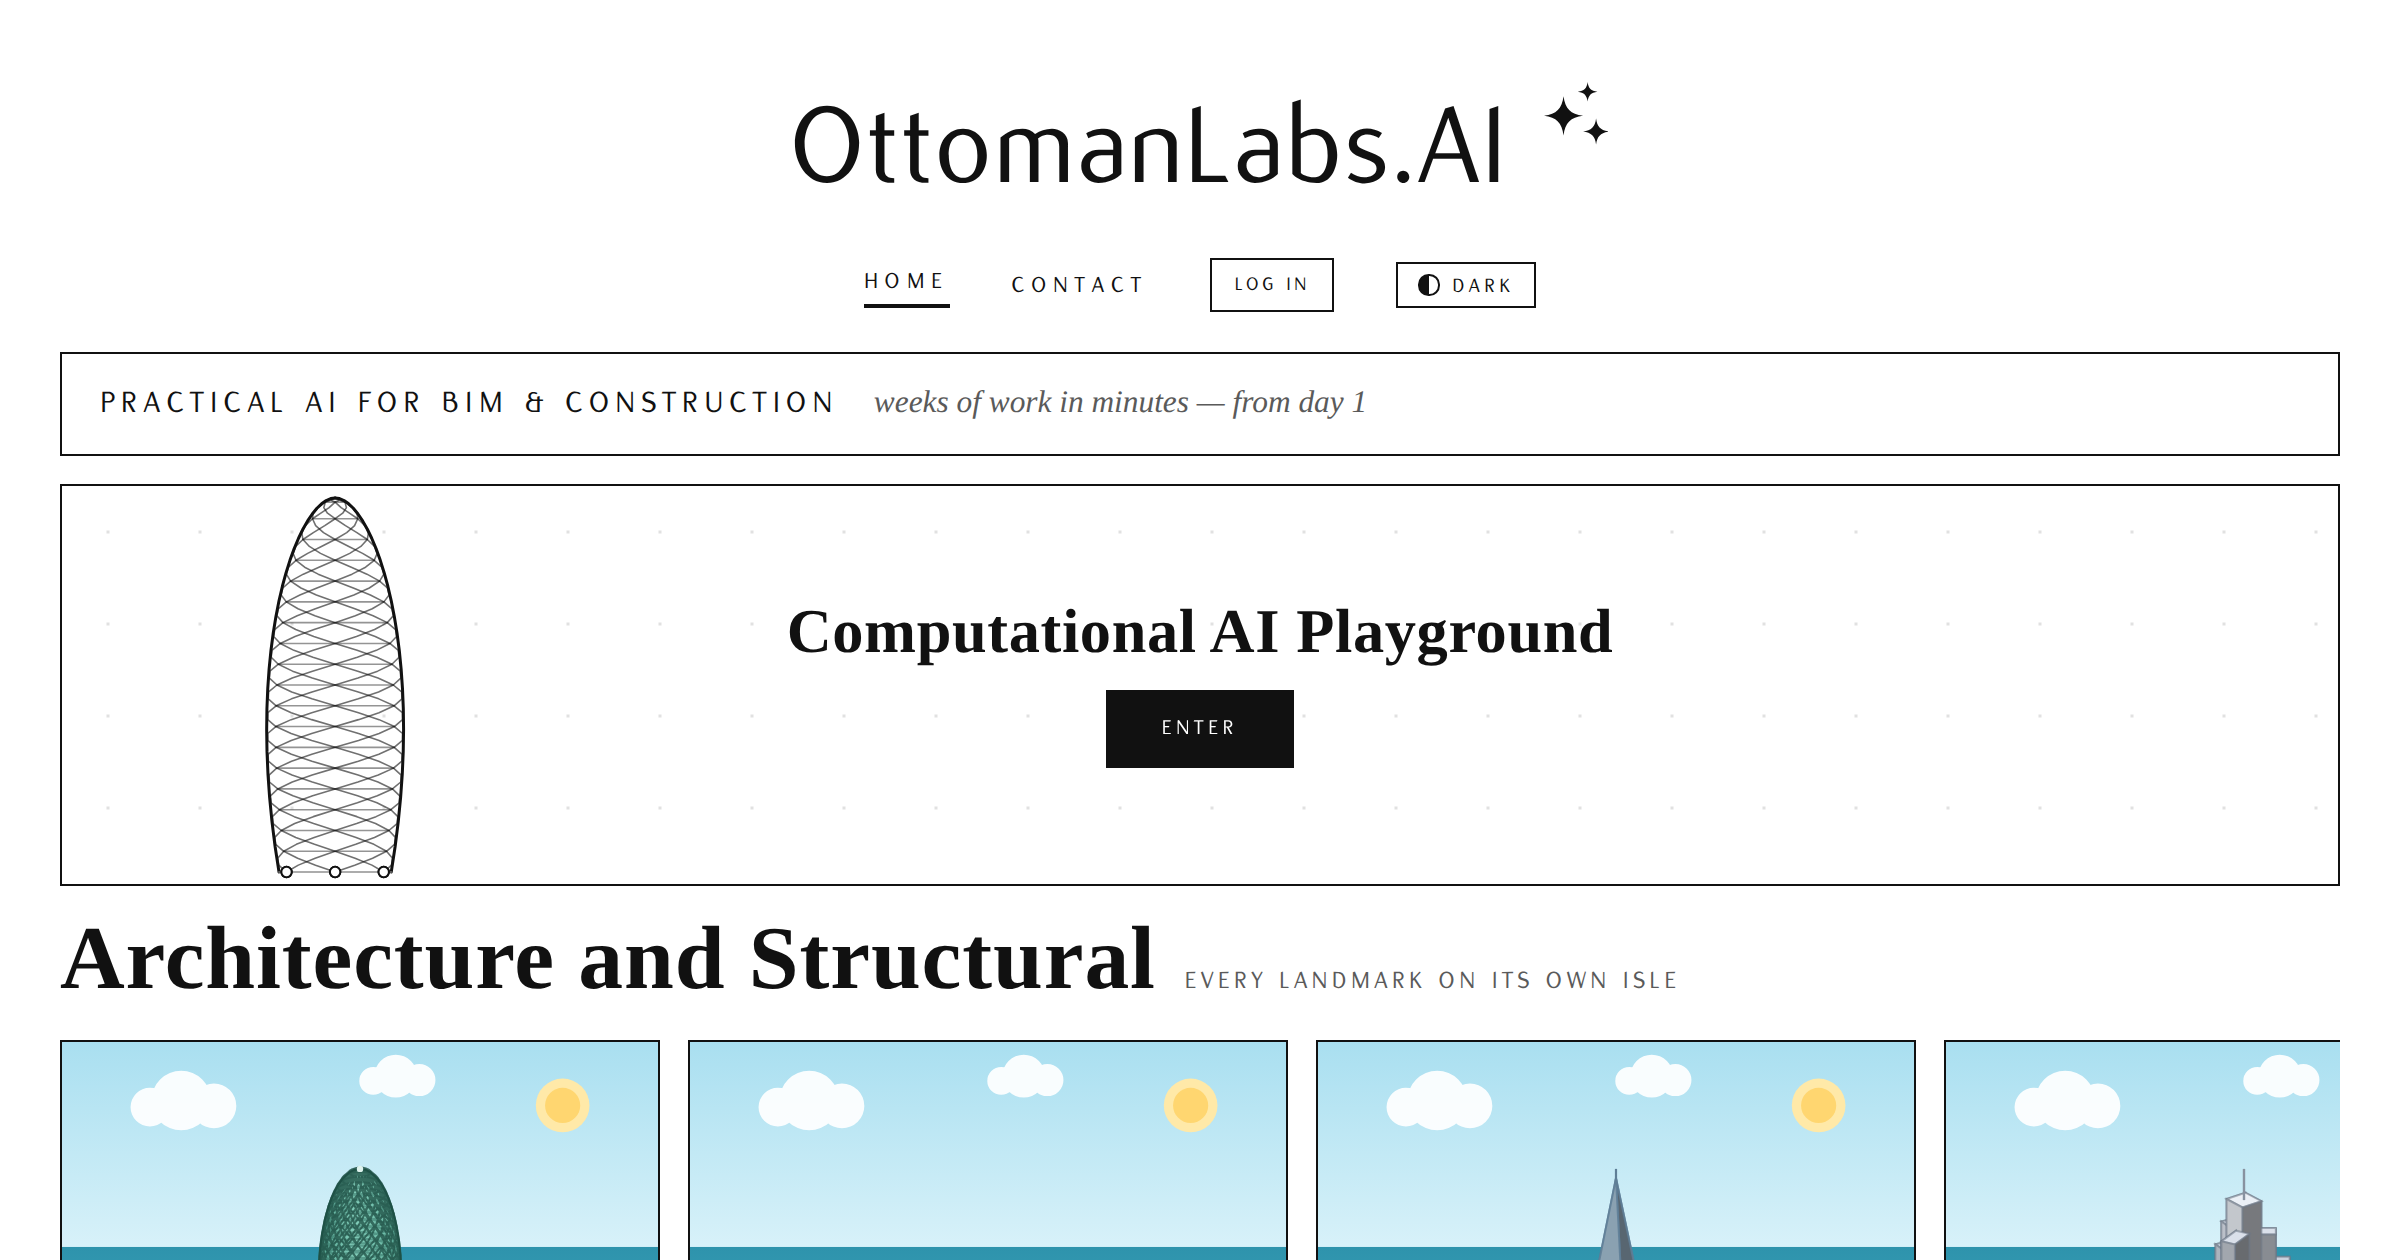
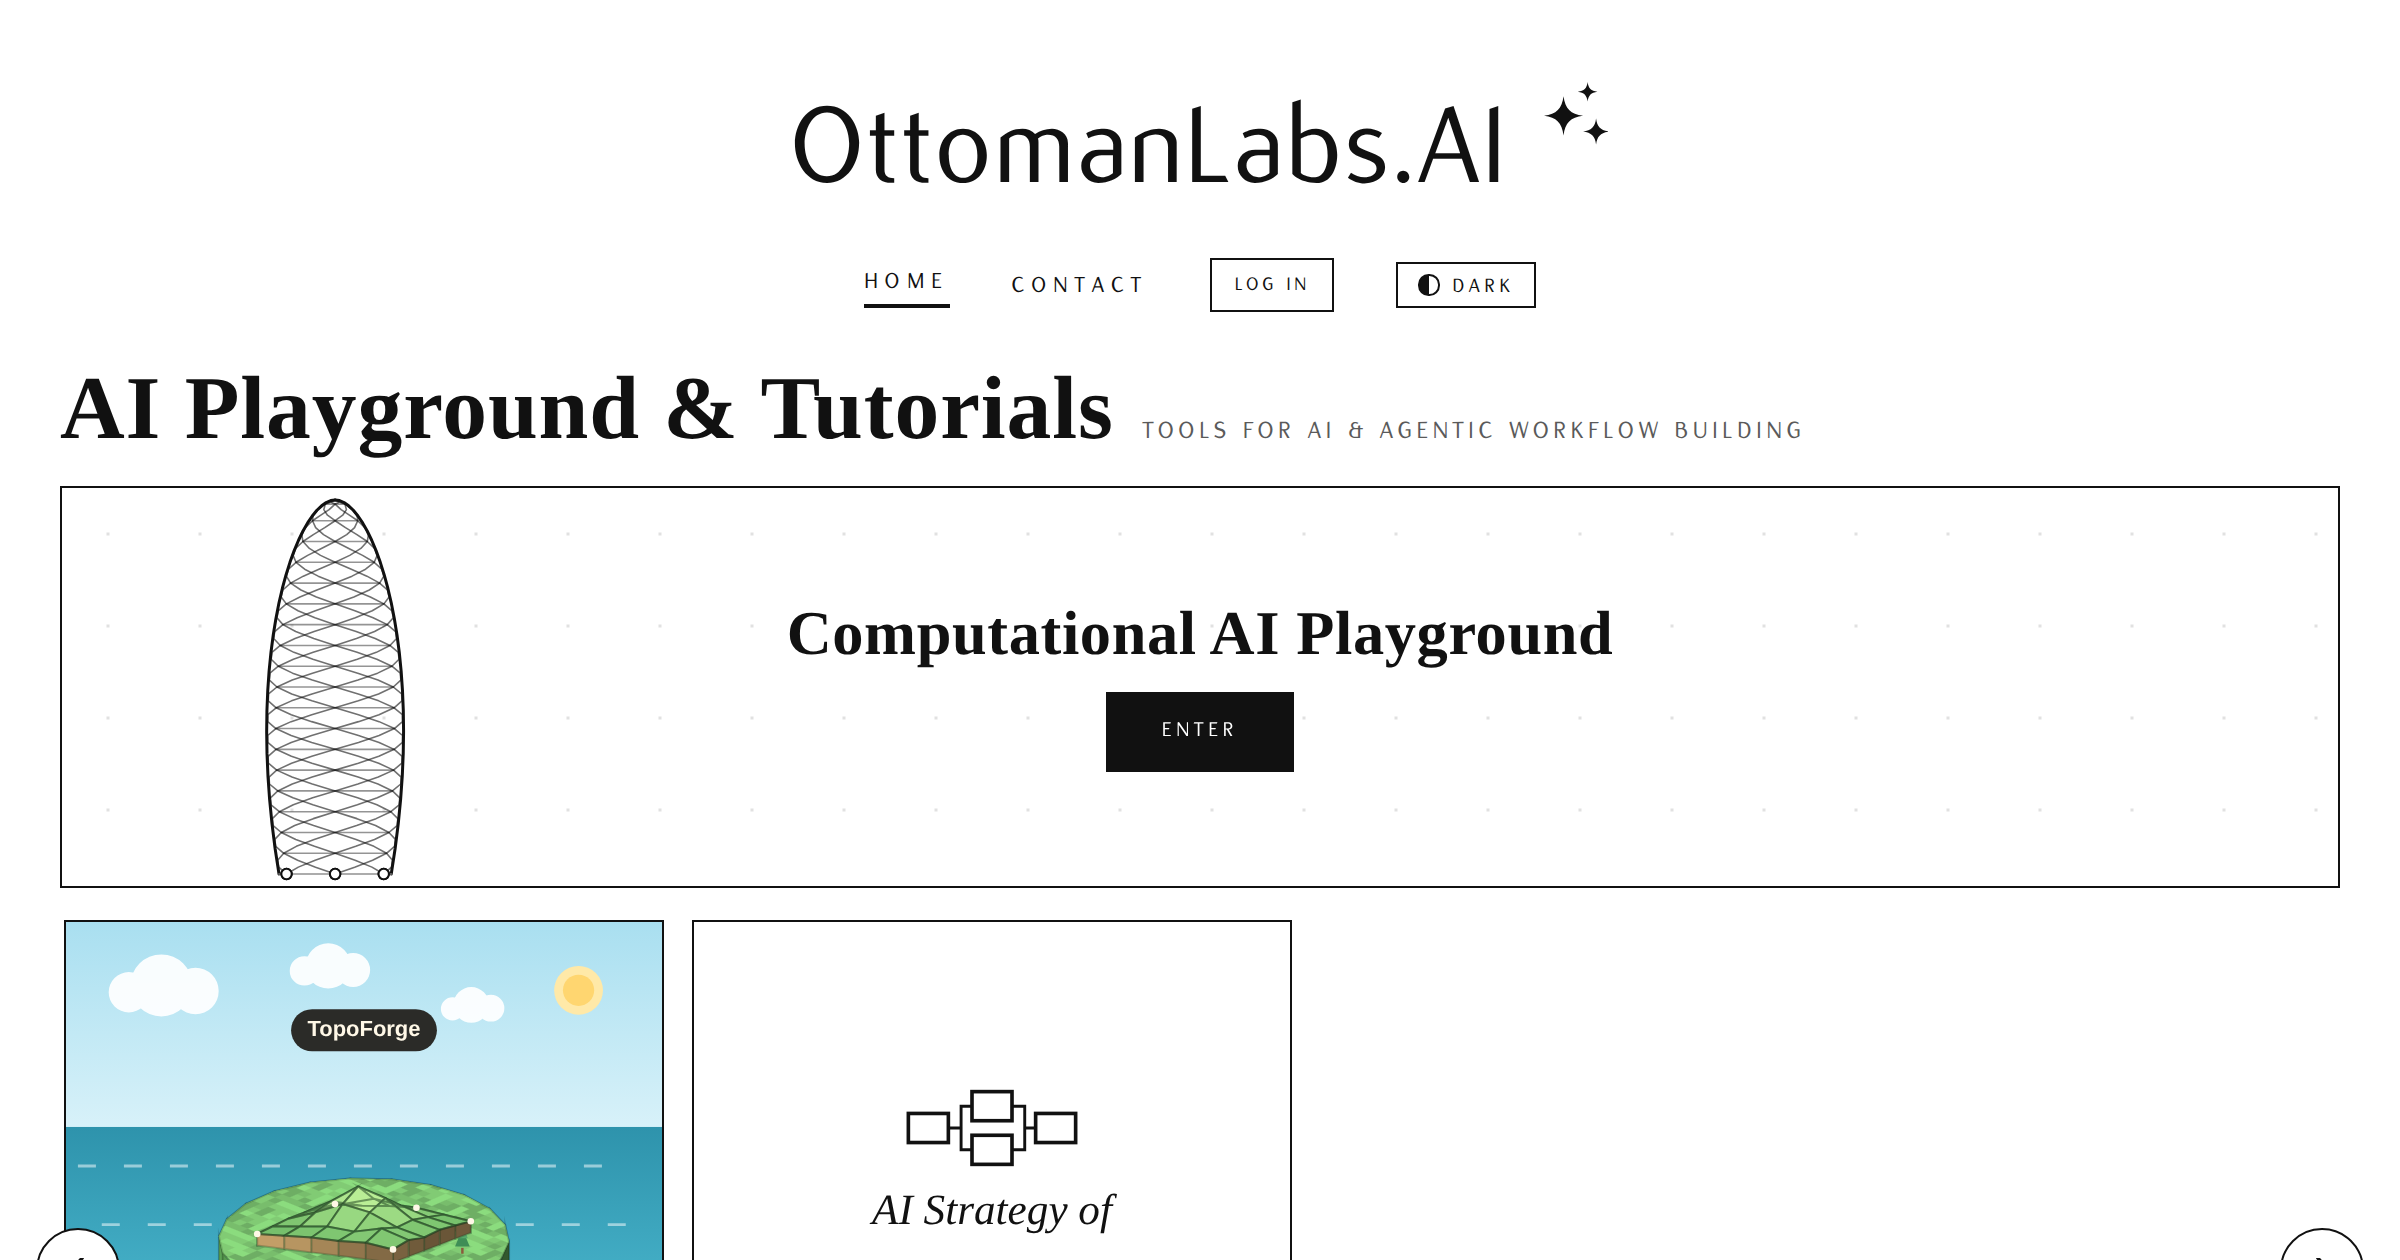
AI Playground & Tutorials leads; the claim moves; 9:16 video cards
The homepage opens with a titled section — AI Playground & Tutorials,
tools for AI & agentic workflow building — holding the playground hero, a
rail with TopoForge (moved out of Data Centre Automation) and the AI
Strategy box (moved out of the Studio). The old claim strip dissolves:
its words become Architecture and Structural's subtitle, which now
carries the page h1. The AI Image & Video cards go portrait, 9:16.

Claude-Session: https://claude.ai/code/session_018QcUFKCdPGgzpAiDkBKoX2

diff --git a/index.html b/index.html
@@ -187,6 +187,8 @@
   .rcard{ border:1px solid var(--hair); background:var(--paper); display:flex; flex-direction:column; }
   .rcard .isle, .rcard .tisle{ display:block; width:100%; height:auto; }
   .rcard .plate{ color:var(--ink); aspect-ratio:5/4; display:flex; align-items:center; justify-content:center; }
+  .rail > .vcard{ flex-basis:clamp(190px, 16vw, 230px); }
+  .vcard .plate{ aspect-ratio:9/16; }
   .rcard .plate svg{ width:76%; height:auto; }
   .rcard .sel-banner{ margin-top:auto; padding:.5rem .8rem; }
   .rcard .sel-banner .sel-name{ font-size:1.02rem; }
@@ -243,11 +245,7 @@
 
 <main id="main" class="wrap">
 
-  <div class="claim">
-    <h1>Practical AI for BIM &amp; Construction</h1>
-    <span class="claim-sub">weeks of work in minutes &mdash; from day 1</span>
-  </div>
-
+  <h2 class="section-head">AI Playground &amp; Tutorials<span class="sh-sub">tools for AI &amp; agentic workflow building</span></h2>
   <a class="pg-hero" id="pgHero" href="playground.html" aria-label="Enter the Computational AI Playground">
     <canvas id="pgHeroCanvas" aria-hidden="true"></canvas>
     <span class="pg-hero-centre">
@@ -255,8 +253,32 @@
       <span class="pg-hero-btn">Enter</span>
     </span>
   </a>
+  <div class="rail-wrap" style="margin-top:var(--gap)">
+    <button class="rarrow prev" aria-label="Scroll left">&#8249;</button>
+    <div class="rail">
+      <div class="rcard">
+        <canvas class="tisle" id="tcTopo0" aria-hidden="true"></canvas>
+        <div class="sel-banner"><span class="sel-name">TOPOFORGE</span></div>
+        <div class="ropts"><a class="ropt" href="topoforge.html">Open the forge</a></div>
+      </div>
+    <!-- ════════ AI STRATEGY ════════ -->
+    <a class="box a-strategy" href="strategy.html">
+      <svg viewBox="0 0 96 44" width="88" height="40" fill="none" stroke="#111" stroke-width="2" aria-hidden="true">
+        <rect x="2" y="14" width="22" height="16"/>
+        <rect x="37" y="2" width="22" height="16"/>
+        <rect x="37" y="26" width="22" height="16"/>
+        <rect x="72" y="14" width="22" height="16"/>
+        <path d="M24 22 H31 M31 22 V10 H37 M31 22 V34 H37 M59 10 H66 V22 H72 M59 34 H66 V22" stroke-width="1.6"/>
+      </svg>
+      <span class="ital">AI Strategy of</span>
+      <span class="display" style="font-size:1.4rem">BIM &amp; CONSTRUCTION</span>
+      <span class="caps caps-tight muted" style="font-size:.6rem">RIBA 2&ndash;6 &middot; briefed in plain English &middot; built in hours</span>
+    </a>
+    </div>
+    <button class="rarrow next" aria-label="Scroll right">&#8250;</button>
+  </div>
 
-  <h2 class="section-head">Architecture and Structural<span class="sh-sub">every landmark on its own isle</span></h2>
+  <h1 class="section-head">Architecture and Structural<span class="sh-sub">Practical AI for BIM &amp; Construction &middot; weeks of work in minutes &mdash; from day 1</span></h1>
   <div class="rail-wrap">
     <button class="rarrow prev" aria-label="Scroll left">&#8249;</button>
     <div class="rail">
@@ -289,15 +311,10 @@
     <button class="rarrow next" aria-label="Scroll right">&#8250;</button>
   </div>
 
-  <h2 class="section-head">Data Centre Automation<span class="sh-sub">site, terrain &amp; utilities tooling &middot; TopoForge is live</span></h2>
+  <h2 class="section-head">Data Centre Automation<span class="sh-sub">site, terrain &amp; utilities tooling &middot; coming soon</span></h2>
   <div class="rail-wrap">
     <button class="rarrow prev" aria-label="Scroll left">&#8249;</button>
     <div class="rail">
-      <div class="rcard">
-        <canvas class="tisle" id="tcTopo0" aria-hidden="true"></canvas>
-        <div class="sel-banner"><span class="sel-name">TOPOFORGE</span></div>
-        <div class="ropts"><a class="ropt" href="topoforge.html">Open the forge</a></div>
-      </div>
       <div class="rcard">
         <canvas class="tisle" id="tcTopo1" aria-hidden="true"></canvas>
         <div class="sel-banner"><span class="sel-name">ALIGN TO TOPOGRAPHY</span></div>
@@ -326,17 +343,17 @@
   <div class="rail-wrap">
     <button class="rarrow prev" aria-label="Scroll left">&#8249;</button>
     <div class="rail">
-      <div class="rcard">
+      <div class="rcard vcard">
         <div class="plate"><svg viewBox="0 0 200 130" fill="none" stroke="currentColor" stroke-width="3" stroke-linecap="round" stroke-linejoin="round" aria-hidden="true"><path d="M14 116 L52 66 L74 94 L100 56 L128 98 L150 74 L186 116" stroke-width="2.4"/><ellipse cx="100" cy="46" rx="30" ry="26"/><ellipse cx="100" cy="46" rx="22" ry="18" stroke-width="2"/><path d="M84 32 q6 -6 14 -7 M116 60 q-6 6 -14 7" stroke-width="1.4"/></svg></div>
         <div class="sel-banner"><span class="sel-name">LORD OF THE RINGS</span></div>
         <div class="ropts"><span class="ropt off">AI generation tutorial &middot; coming soon</span></div>
       </div>
-      <div class="rcard">
+      <div class="rcard vcard">
         <div class="plate"><svg viewBox="0 0 200 130" fill="none" stroke="currentColor" stroke-width="3" stroke-linecap="round" aria-hidden="true"><circle cx="100" cy="65" r="46"/><path d="M54 65 H82 M118 65 H146" stroke-width="2.6"/><circle cx="100" cy="65" r="16" stroke-width="2.6"/><circle cx="100" cy="65" r="7"/></svg></div>
         <div class="sel-banner"><span class="sel-name">POK&Eacute;MON</span></div>
         <div class="ropts"><span class="ropt off">AI generation tutorial &middot; coming soon</span></div>
       </div>
-      <div class="rcard">
+      <div class="rcard vcard">
         <div class="plate"><svg viewBox="0 0 200 130" fill="none" stroke="currentColor" stroke-width="2.4" stroke-linecap="round" stroke-linejoin="round" aria-hidden="true">
           <rect x="8" y="42" width="46" height="34"/>
           <path d="M16 53 H46 M16 61 H38 M16 69 H42" stroke-width="1.6"/>
@@ -484,19 +501,6 @@
       <span class="ital">watch on</span>
       <span class="display" style="font-size:1.4rem">YOUTUBE</span>
       <span class="caps caps-tight muted" style="font-size:.6rem">@OttomanlabsAI &middot; Revit, Grasshopper &amp; AI</span>
-    </a>
-    <!-- ════════ AI STRATEGY ════════ -->
-    <a class="box a-strategy" href="strategy.html">
-      <svg viewBox="0 0 96 44" width="88" height="40" fill="none" stroke="#111" stroke-width="2" aria-hidden="true">
-        <rect x="2" y="14" width="22" height="16"/>
-        <rect x="37" y="2" width="22" height="16"/>
-        <rect x="37" y="26" width="22" height="16"/>
-        <rect x="72" y="14" width="22" height="16"/>
-        <path d="M24 22 H31 M31 22 V10 H37 M31 22 V34 H37 M59 10 H66 V22 H72 M59 34 H66 V22" stroke-width="1.6"/>
-      </svg>
-      <span class="ital">AI Strategy of</span>
-      <span class="display" style="font-size:1.4rem">BIM &amp; CONSTRUCTION</span>
-      <span class="caps caps-tight muted" style="font-size:.6rem">RIBA 2&ndash;6 &middot; briefed in plain English &middot; built in hours</span>
     </a>
     <!-- ════════ CV BUILDER ════════ -->
     <a class="box a-cvb" href="cvbuilder.html">
